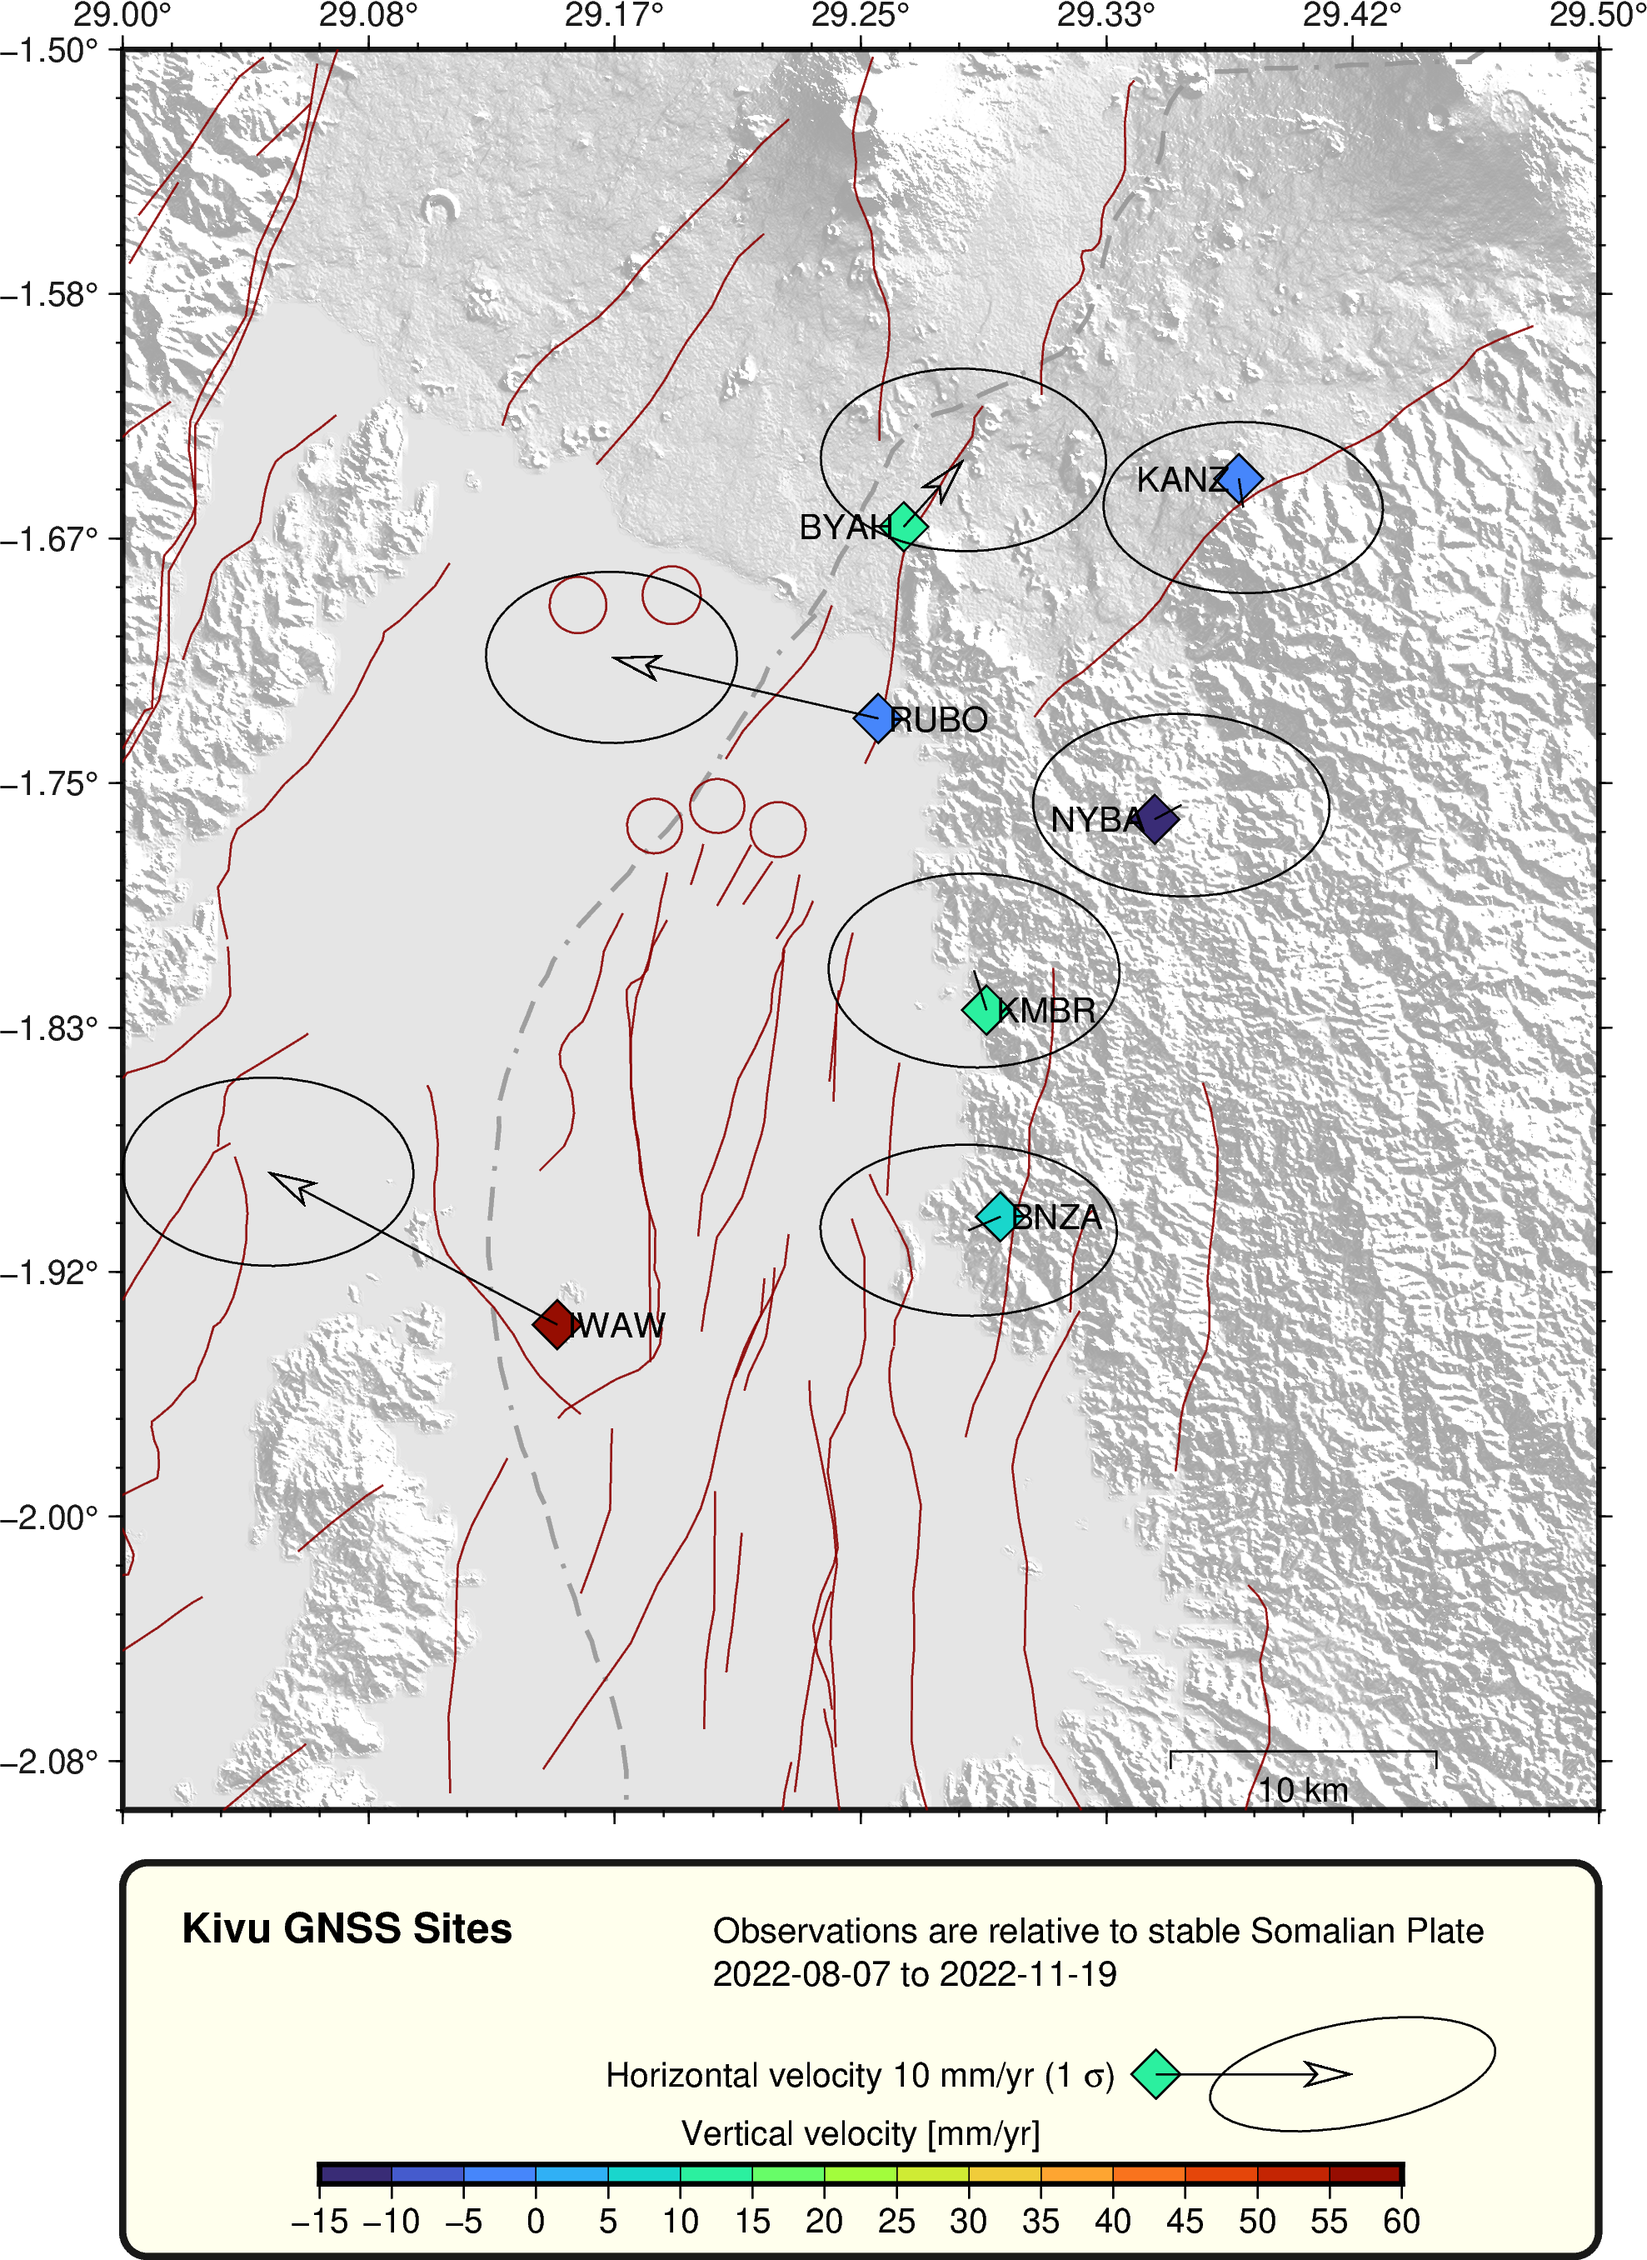
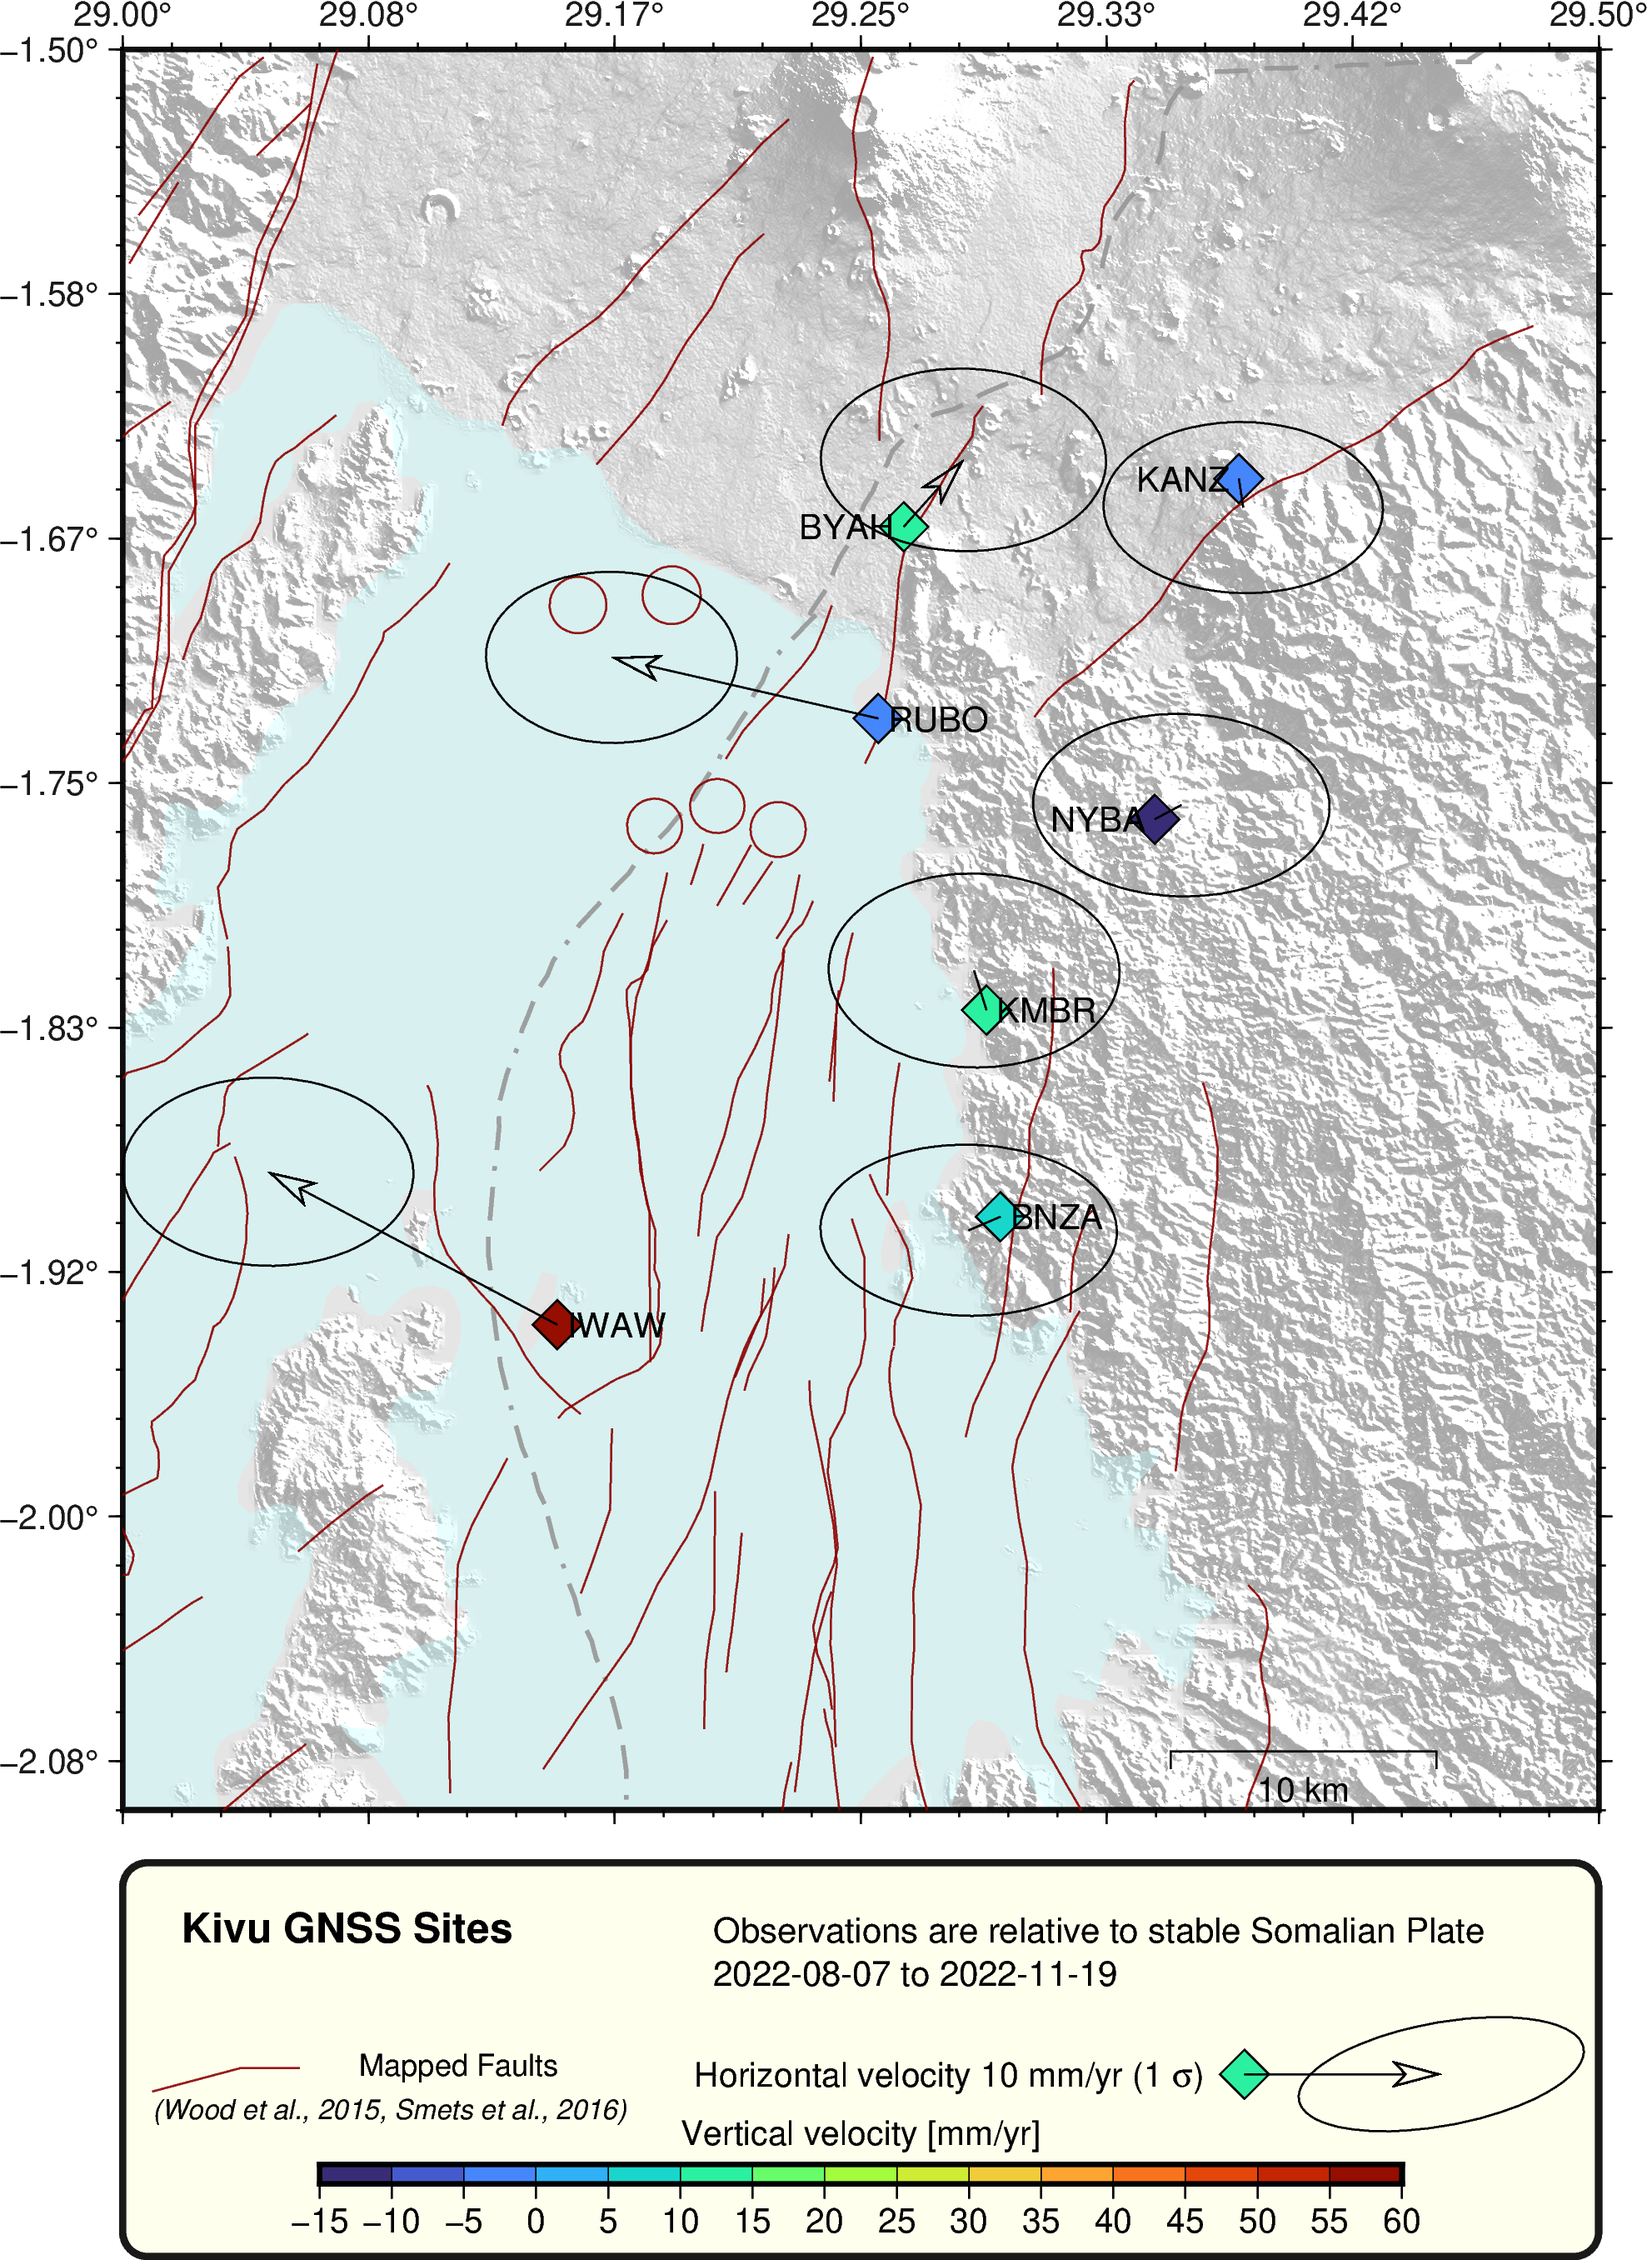
better map with legend improvements

diff --git a/bin/Kivu_GNSS_Map.py b/bin/Kivu_GNSS_Map.py
@@ -48,7 +48,7 @@ vels["ENcor"]=0-vels["NEcor"]
 data=vels[["Long","Lat","EPvel","NPvel","Eerr","Nerr","ENcor","Uvel","STAT"]] # EP NP are plate removed
 # add legend velocity
 vslat = float(-2.19)
-vslong = float(29.35)
+vslong = float(29.38)
 velscale = pd.Series([vslong,vslat, 10, 0, 5, 2, 0.4, 10, " "],index=data.columns)
 vdf=velscale.to_frame().T
 # Need to reset floats to all be floats again...pita
@@ -91,6 +91,24 @@ fig1.grdimage(DEMgrad,region=region,projection=proj,
     dpi=600, 
     transparency=60)
 
+# Legend box -- hardwired :( 
+fig1.plot(x=29.25, y=-2.185, 
+    style="R15/4/0.25", 
+    color="255/255/235", 
+    pen="2p,black",
+    transparency=10,
+    no_clip=True,
+    )
+
+# add lake 
+fig1.coast(region=region,  # xmin,xmax,ymin,ymax
+    projection=proj,
+    frame=['p','wsen','xa0.1', 'ya.1'], 
+    resolution='f', 
+    lakes=True,
+    water='200/255/255',
+    transparency=60,
+    )
 # remap the national borders as dashed lines
 fig1.coast(region=region,  # xmin,xmax,ymin,ymax
     projection=proj,
@@ -101,18 +119,10 @@ fig1.coast(region=region,  # xmin,xmax,ymin,ymax
     )
 # faults from Cindy
 fig1.plot(data=faults,
-        pen="0.5p,darkred",
-        transparency=10,
-        )
+    pen="0.5p,darkred",
+    transparency=10,
+    )
 
-# Legend box -- hardwired :( 
-fig1.plot(x=29.25, y=-2.185, 
-        style="R15/4/0.25", 
-        color="255/255/235", 
-        pen="2p,black",
-        transparency=10,
-        no_clip=True,
-        )
 cinc=5  # CPT increment
 pygmt.makecpt(cmap="turbo",  #reverse=True, 
         continuous=False,
@@ -148,7 +158,7 @@ fig1.colorbar(
 fig1.text(
     text=["Vertical velocity [mm/yr]", "Horizontal velocity 10 mm/yr (1 @~s@~)"],
     no_clip=True,
-    x=[29.25,29.25],
+    x=[29.25,29.28],
     y=[-2.21,vslat]
     )
 fig1.text(text="Kivu GNSS Sites",
@@ -175,10 +185,25 @@ fig1.basemap(region=region,  # xmin,xmax,ymin,ymax
     map_scale   = '29.40/-2.080/-1.9/10',
     )
 
+xmin=29; xmax=29.5; ymin=0;ymax=1
+region=[xmin,xmax,ymin,ymax]
+proj="X15c/4c"
+
+# polygons and lines are always clipped :( need to offset plot
+fig1.plot(x=[29.01, 29.04, 29.06], y=[0.41, 0.47, 0.47],
+    region=region,  
+    projection=proj,
+    yshift=-4.5,
+    pen="0.5p,darkred",
+    transparency=10,
+    )
+fig1.text( text="Mapped Faults", x=29.08, y=0.45, justify="LB" )
+fig1.text( text="(Wood et al., 2015, Smets et al., 2016)", x=29.01, y=0.34, justify="LB",font="8p,Helvetica-Oblique,black" )
+
 fig1.savefig(os.path.join(plotdir,'TS_rates_SONNR.png'),  # types include png,jpg,pdf,bmp,tif,eps,kml
-            transparent=False, # transp background for png only
-            crop=True, # removes whitespace around fig
-            anti_alias=True, # creates smoother plots
-            show=False, # display externally too
-            dpi=300 #this is default for png
-            )
+    transparent=False, # transp background for png only
+    crop=True, # removes whitespace around fig
+    anti_alias=True, # creates smoother plots
+    show=False, # display externally too
+    dpi=300 #this is default for png
+    )
